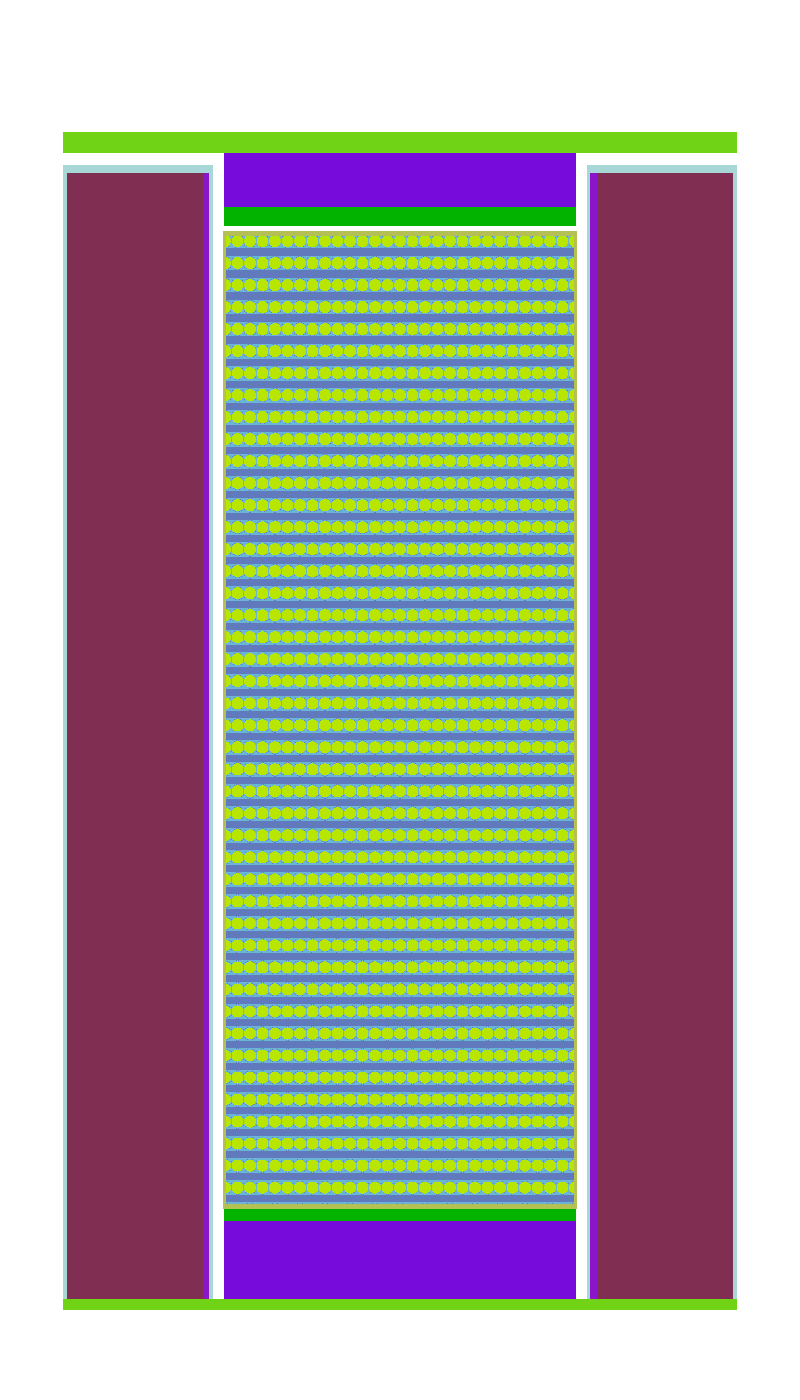
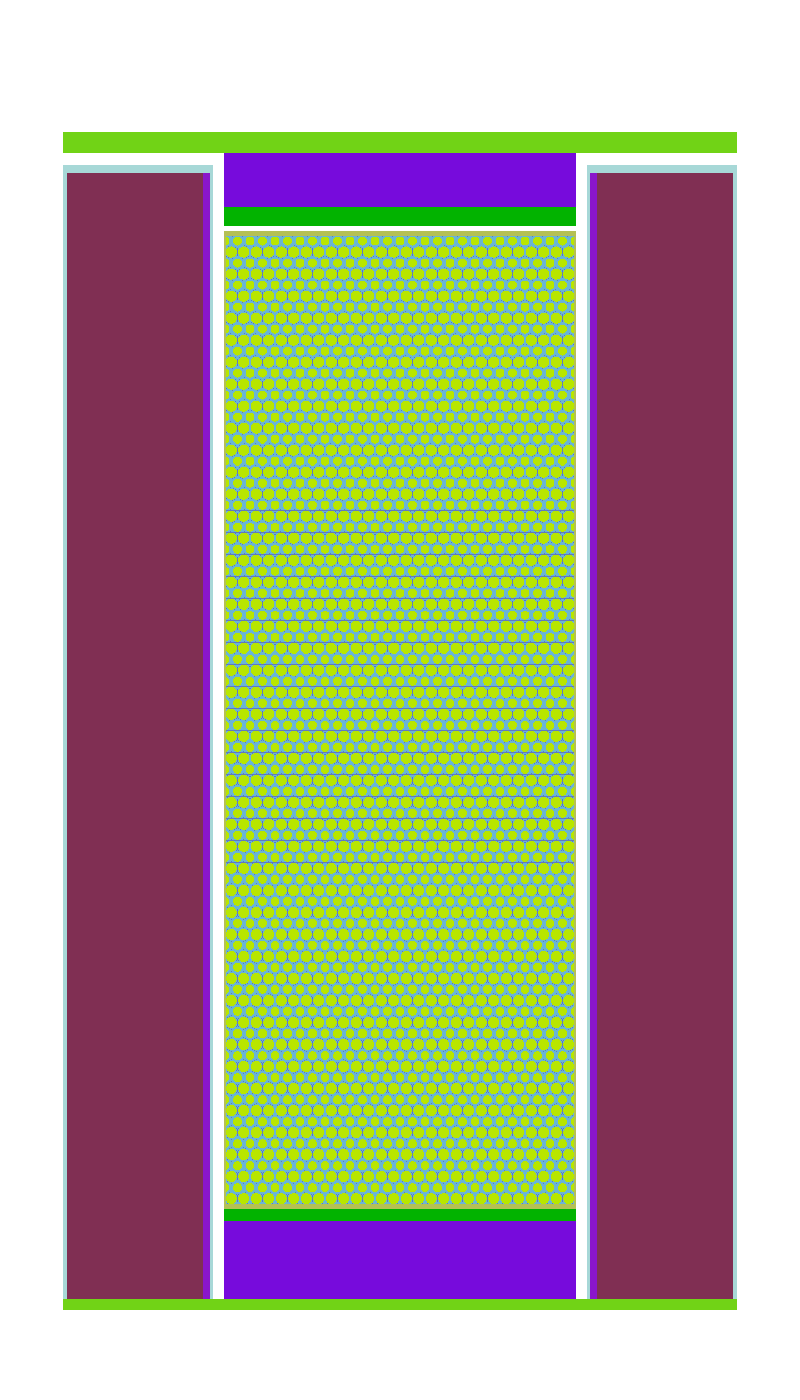
more pictures

Changed region(s): [[0.2812, 0.1536, 0.7188, 0.86]]

diff --git a/CodeBase/cask_and_mpc.py b/CodeBase/cask_and_mpc.py
@@ -212,22 +212,22 @@ settings.export_to_xml()
 
 plot1 = openmc.Plot()
 plot1.basis = 'xz'
-plot1.origin = (0, 0, 240 / 2 * cm)
+plot1.origin = (0, 2, 240 / 2 * cm)
 plot1.width = (400, 700)
-plot1.pixels = (800, 1400)
+plot1.pixels = (1600, 1400*2)
 plot1.color_by = 'cell'
 plot1.type = 'slice'
-plot1.filename = 'cask_xsection_yz_filled.png'
+plot1.filename = 'cask_xsection_yz_filled_stag.png'
 
 
 plot2 = openmc.Plot()
 plot2.basis = 'xy'
-plot2.origin = (0, 0, 240 / 2 * cm)
+plot2.origin = (0, 0, 248.7 / 2 * cm)
 plot2.width = (400, 400)
-plot2.pixels = (1200, 1200)
+plot2.pixels = (1200*3, 1200*3)
 plot2.color_by = 'cell'
 plot2.type = 'slice'
-plot2.filename = 'cask_xsection_xy_filled.png'
+plot2.filename = 'cask_xsection_xy_filled_stag.png'
 
 plots = openmc.Plots([plot1,plot2])
 plots.export_to_xml()
